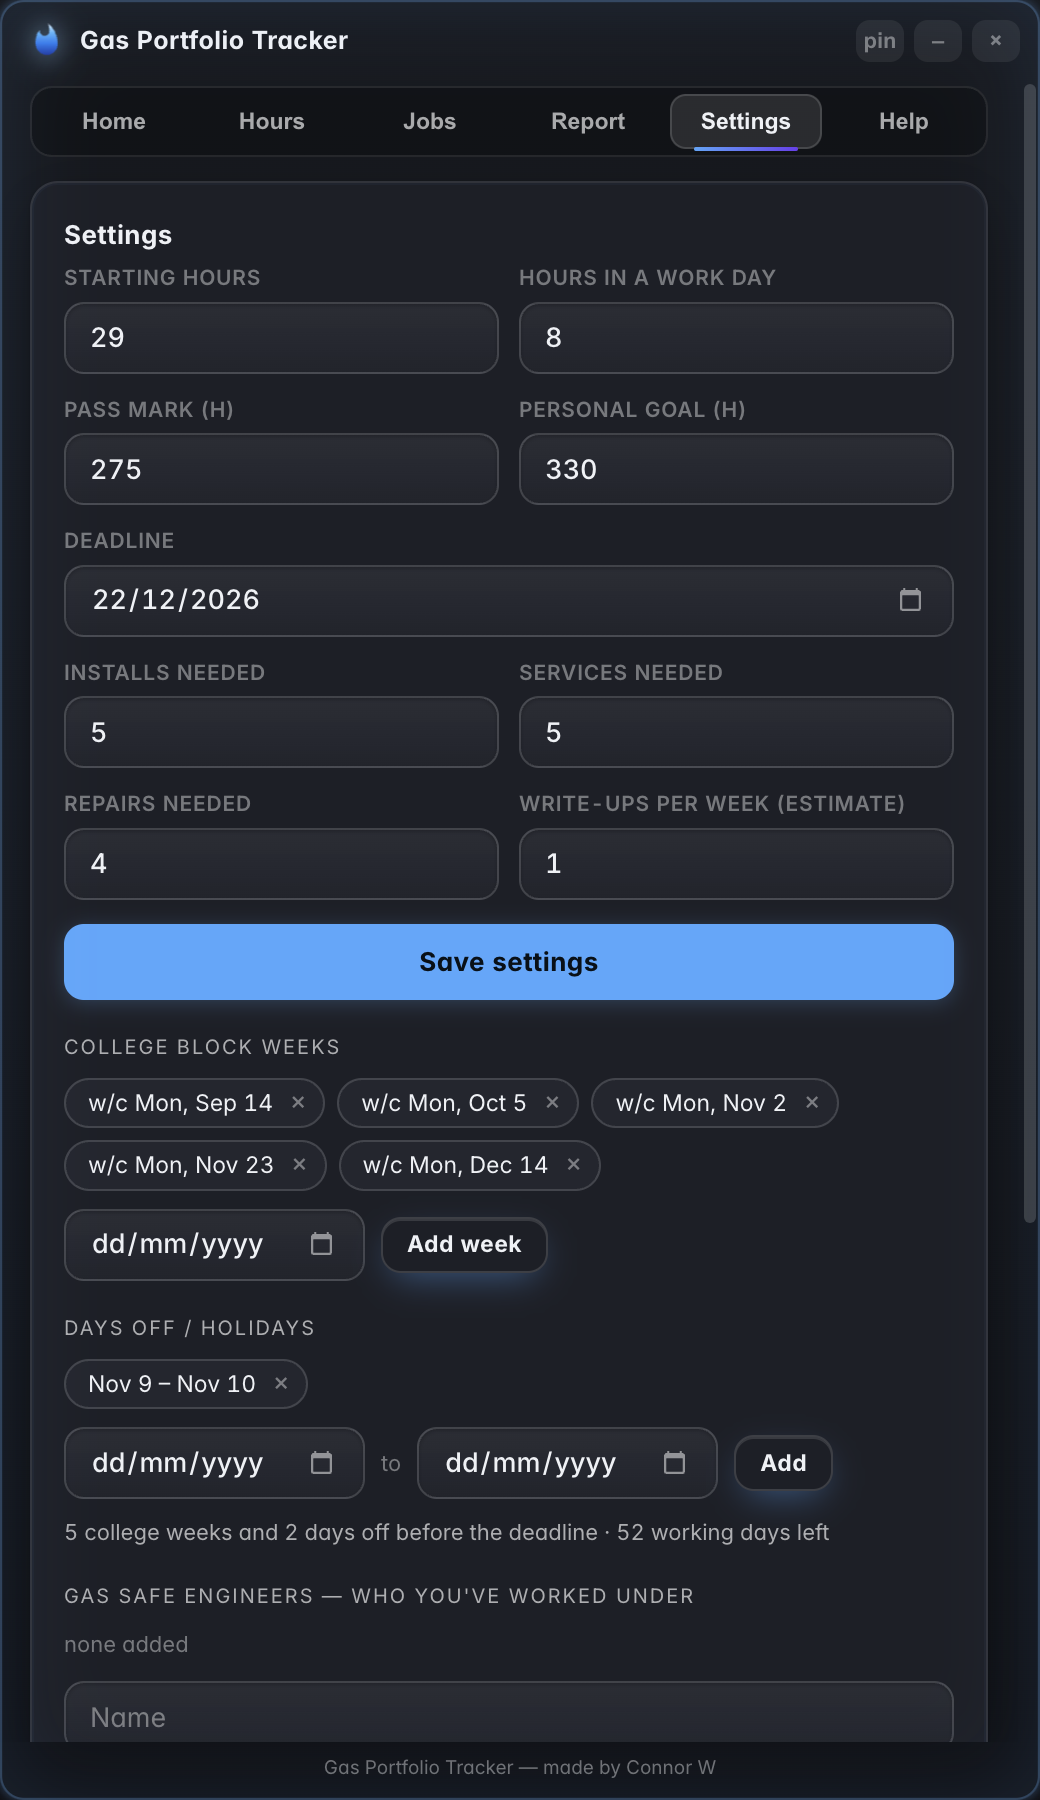
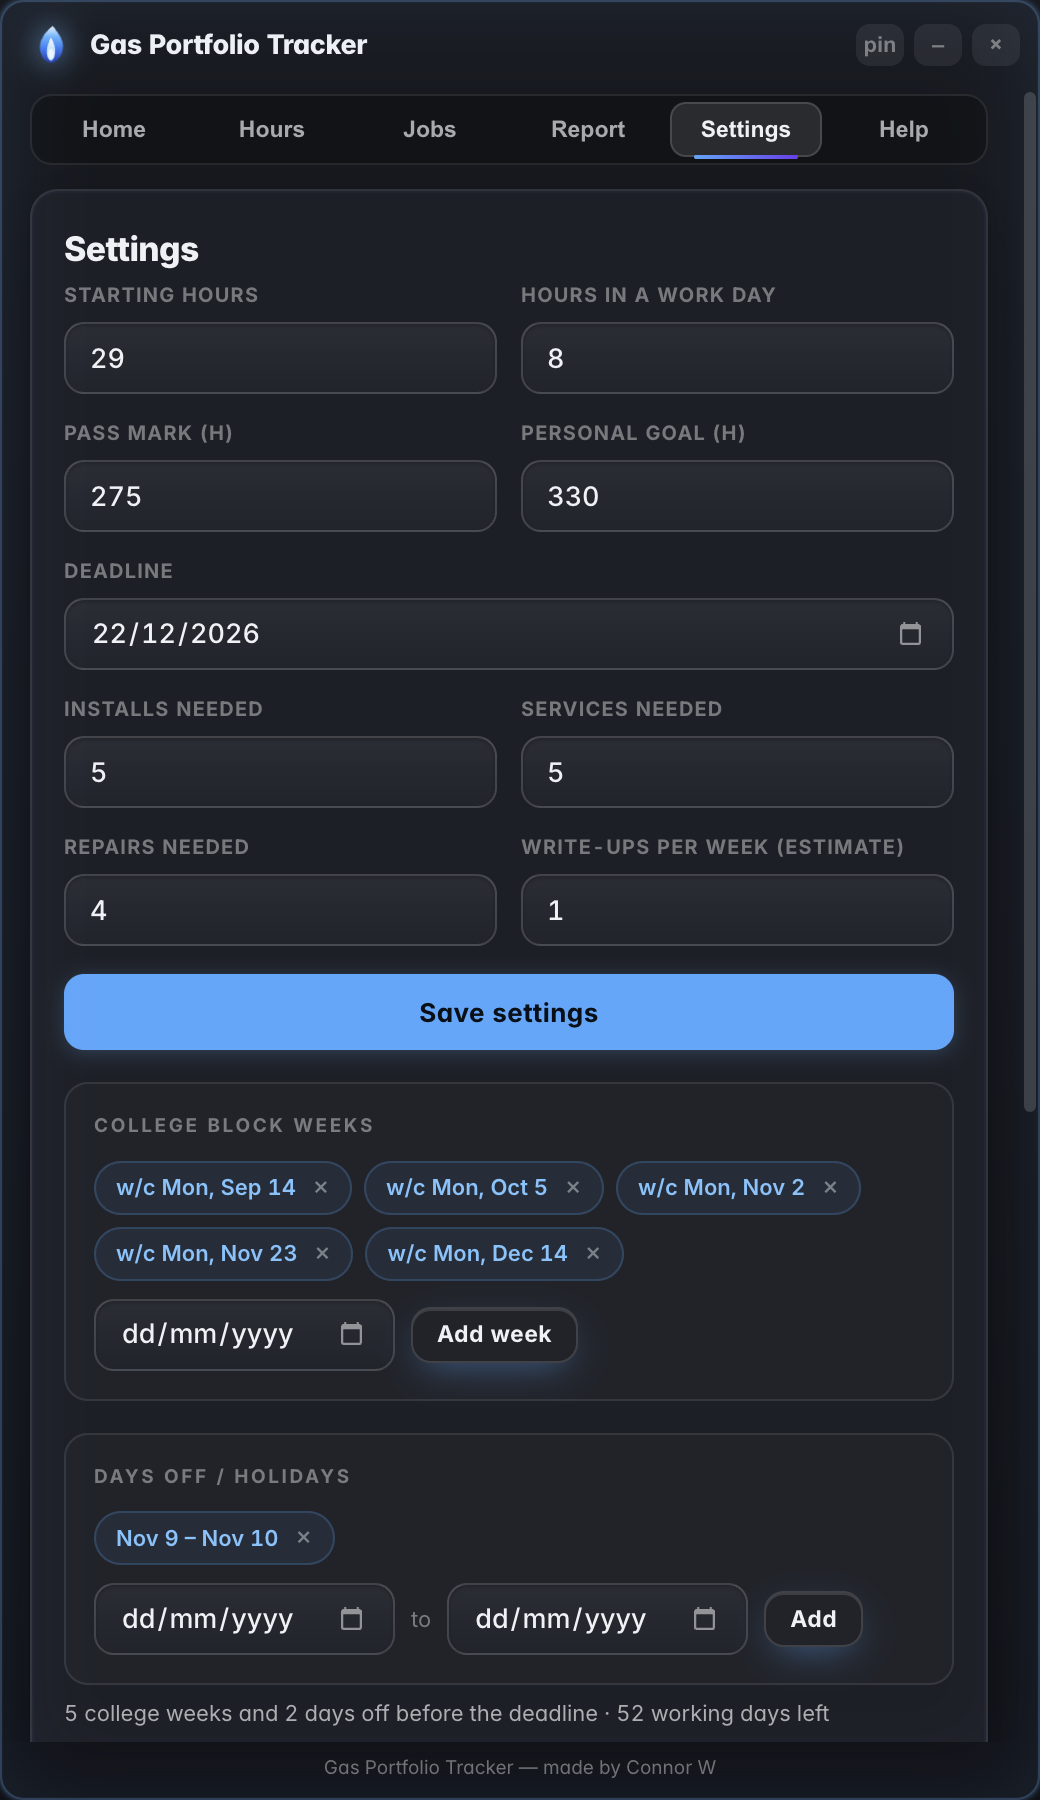
v2.5.0 — restyle Hours/Jobs/Report/Settings/Help to match Home
CSS-only pass (no logic change, 27 tests pass):
- .card > h3 as a proper page title; intro copy spacing
- form2/form3/sgrid labels become column hcap captions over the input
- report-preview cells -> Home stat tiles
- Jobs tiles + coverage restyled; coverage greens when covered
- Settings chipedit blocks -> bordered sections w/ uppercase headers + blue chips
- lists, help sections, upsec tidied

diff --git a/src/style.css b/src/style.css
@@ -977,3 +977,96 @@ main > .card:nth-of-type(2) { animation-delay: 0.05s; }
   font: inherit; font-size: 10.5px; font-weight: 700; padding: 3px 9px; border-radius: 999px; cursor: pointer;
 }
 .convbanner .cx:hover { background: rgba(255,255,255,0.16); color: var(--ink); }
+
+/* ============================================================
+   v2.5 — bring the other tabs up to the Home page's finish
+   ============================================================ */
+
+/* page title + intro */
+.card > h3 {
+  font-size: 17px; font-weight: 800; letter-spacing: -0.02em; margin-bottom: 3px;
+}
+.card > h3 .h3-r {
+  font-size: 10px; font-weight: 700; letter-spacing: 0.5px; text-transform: uppercase;
+  color: var(--accent-2); text-shadow: 0 0 9px rgba(78,168,255,0.5);
+}
+.card > p, .card > p.dim { font-size: 12.5px; color: var(--ink-2); line-height: 1.5; margin: 6px 0 16px; }
+.card > p.sm, .card p.dim.sm { font-size: 11px; }
+
+/* form field labels -> the Home hcap style (column: caption over input) */
+.form2 > label, .form3 > label, .sgrid > label, label.wide {
+  display: flex; flex-direction: column; gap: 6px; font-size: 10px; font-weight: 700;
+  letter-spacing: 0.6px; text-transform: uppercase; color: var(--ink-3); margin-bottom: 0;
+}
+.form2, .form3, .sgrid { gap: 12px; margin-bottom: 14px; }
+.form2 > label input, .form3 > label input, .form3 > label select,
+.sgrid > label input, label.wide input, label.wide select,
+label.wide textarea { text-transform: none; letter-spacing: 0; font-weight: 500; }
+
+/* ---- Report: preview cells become Home-style tiles ---- */
+.report-preview { gap: 10px; margin: 6px 0 16px; }
+.report-preview > div {
+  background: linear-gradient(180deg, rgba(255,255,255,0.035), rgba(255,255,255,0.012));
+  border: 1px solid var(--line); border-radius: 12px; padding: 11px 13px;
+}
+.report-preview b { font-size: 21px; font-weight: 800; letter-spacing: -0.5px; color: var(--ink); }
+.report-preview span {
+  font-size: 9px; font-weight: 700; letter-spacing: 0.9px; text-transform: uppercase; color: var(--ink-3);
+  display: block; margin-top: 2px;
+}
+
+/* ---- Jobs: tiles + coverage ---- */
+.tiles { gap: 10px; margin: 8px 0 14px; }
+.tile {
+  background: linear-gradient(180deg, rgba(255,255,255,0.04), rgba(255,255,255,0.012));
+  border: 1px solid var(--line); border-radius: 12px; padding: 12px 10px;
+  transition: border-color 0.14s, background 0.14s, transform 0.08s;
+}
+.tile:hover { border-color: var(--accent); background: rgba(78,168,255,0.09); transform: translateY(-1px); }
+.tile-n { font-size: 22px; font-weight: 800; letter-spacing: -0.5px; }
+.tile-l { font-size: 8.5px; font-weight: 700; letter-spacing: 0.8px; }
+.cover { gap: 6px; margin: 6px 0 8px; font-size: 12px; }
+.cover .cl { color: var(--ink-3); }
+.cover .ok { color: #8fe6bb; font-weight: 700; }
+.cover .dim { color: var(--ink-3); }
+
+/* ---- Settings: sectioned, tidy ---- */
+.chipedit {
+  margin-top: 16px; padding: 14px; border: 1px solid var(--line); border-radius: 12px;
+  background: rgba(255,255,255,0.015);
+}
+.ce-h {
+  font-size: 9.5px; font-weight: 700; letter-spacing: 1.3px; text-transform: uppercase;
+  color: var(--ink-3); margin-bottom: 10px;
+}
+.chip2 {
+  font-size: 11px; font-weight: 600; padding: 4px 6px 4px 10px; border-radius: 999px;
+  background: rgba(78,168,255,0.08); border: 1px solid rgba(78,168,255,0.2); color: var(--accent-2);
+  display: inline-flex; align-items: center; gap: 4px;
+}
+.chip2 button { color: var(--ink-3); }
+.engrow { background: var(--surface-2); border-color: var(--line-2); border-radius: 10px; }
+.engadd input, .ce-add input[type="date"] { text-transform: none; }
+.upsec {
+  margin-top: 18px; padding-top: 14px; border-top: 1px solid var(--line);
+  display: flex; align-items: center; gap: 10px; flex-wrap: wrap;
+}
+.row-links { margin-top: 16px; }
+
+/* ---- lists (recent hours / write-ups) ---- */
+.listwrap { margin-top: 16px; padding-top: 12px; }
+.list-h { font-size: 9.5px; letter-spacing: 1.2px; }
+.list li { font-size: 12.5px; padding: 10px 0; }
+.list .li-d { color: var(--ink-3); }
+.list .li-v { color: var(--ink); }
+
+/* ---- Help: match the section-header language ---- */
+.help > h3 { margin-bottom: 12px; }
+.help h4 {
+  font-size: 9.5px; font-weight: 700; letter-spacing: 1.3px; text-transform: uppercase;
+  color: var(--ink-3); margin: 20px 0 6px;
+}
+.help p { font-size: 12.5px; color: var(--ink-2); line-height: 1.55; }
+.help details { border-color: var(--line); padding: 11px 0 6px; }
+.help summary { font-size: 12.5px; }
+.help summary::marker { content: ""; }

diff --git a/docs/index.html b/docs/index.html
@@ -90,7 +90,7 @@
 <header class="wrap">
   <img class="lockup" src="brand-lockup.png" alt="Gas Portfolio Tracker"
        width="1600" height="500" fetchpriority="high">
-  <span class="badge">v2.3.3 · free · macOS &amp; Windows</span>
+  <span class="badge">v2.5.0 · free · macOS &amp; Windows</span>
   <h1>Know if you'll actually<br>hit the deadline.</h1>
   <p class="sub">A desktop tracker for a gas SVQ / NVQ portfolio &mdash; assisted hours, unassisted write&#8209;ups, boiler and fault coverage, and the one date that says whether you're on track. Free. Yours. Nothing uploaded.</p>
   <div>
@@ -168,7 +168,7 @@
 
 <div class="foot">
   <img class="foot-mark" src="brand-lockup.png" alt="Gas Portfolio Tracker">
-  <div>Free · macOS + Windows · in&#8209;app updates · <a href="https://github.com/awpehz/gas-portfolio-tracker/releases/latest">Download v2.3.3</a> · <a href="https://github.com/awpehz/gas-portfolio-tracker">Source</a></div>
+  <div>Free · macOS + Windows · in&#8209;app updates · <a href="https://github.com/awpehz/gas-portfolio-tracker/releases/latest">Download v2.5.0</a> · <a href="https://github.com/awpehz/gas-portfolio-tracker">Source</a></div>
 </div>
 
 <script>

diff --git a/docs/tour.html b/docs/tour.html
@@ -90,7 +90,7 @@
 <header class="wrap">
   <img class="lockup" src="brand-lockup.png" alt="Gas Portfolio Tracker"
        width="1600" height="500" fetchpriority="high">
-  <span class="badge">v2.3.3 · free · macOS &amp; Windows</span>
+  <span class="badge">v2.5.0 · free · macOS &amp; Windows</span>
   <h1>Know if you'll actually<br>hit the deadline.</h1>
   <p class="sub">A desktop tracker for a gas SVQ / NVQ portfolio &mdash; assisted hours, unassisted write&#8209;ups, boiler and fault coverage, and the one date that says whether you're on track. Free. Yours. Nothing uploaded.</p>
   <div>
@@ -168,7 +168,7 @@
 
 <div class="foot">
   <img class="foot-mark" src="brand-lockup.png" alt="Gas Portfolio Tracker">
-  <div>Free · macOS + Windows · in&#8209;app updates · <a href="https://github.com/awpehz/gas-portfolio-tracker/releases/latest">Download v2.3.3</a> · <a href="https://github.com/awpehz/gas-portfolio-tracker">Source</a></div>
+  <div>Free · macOS + Windows · in&#8209;app updates · <a href="https://github.com/awpehz/gas-portfolio-tracker/releases/latest">Download v2.5.0</a> · <a href="https://github.com/awpehz/gas-portfolio-tracker">Source</a></div>
 </div>
 
 <script>

diff --git a/CHANGELOG.md b/CHANGELOG.md
@@ -1,5 +1,12 @@
 # Changelog
 
+## 2.5.0 — the other tabs, brought up to Home's finish
+
+Hours, Jobs, Report, Settings and Help now share the Home page's language:
+big titles, uppercase section/field captions, the stat-tile look, blue accent
+text, consistent inputs and buttons. Settings' college-week and days-off editors
+are proper bordered sections with pill chips.
+
 ## 2.4.0 — one mark everywhere
 
 - **App icon redrawn** to the brand flame — the same clean flame + cone as the
